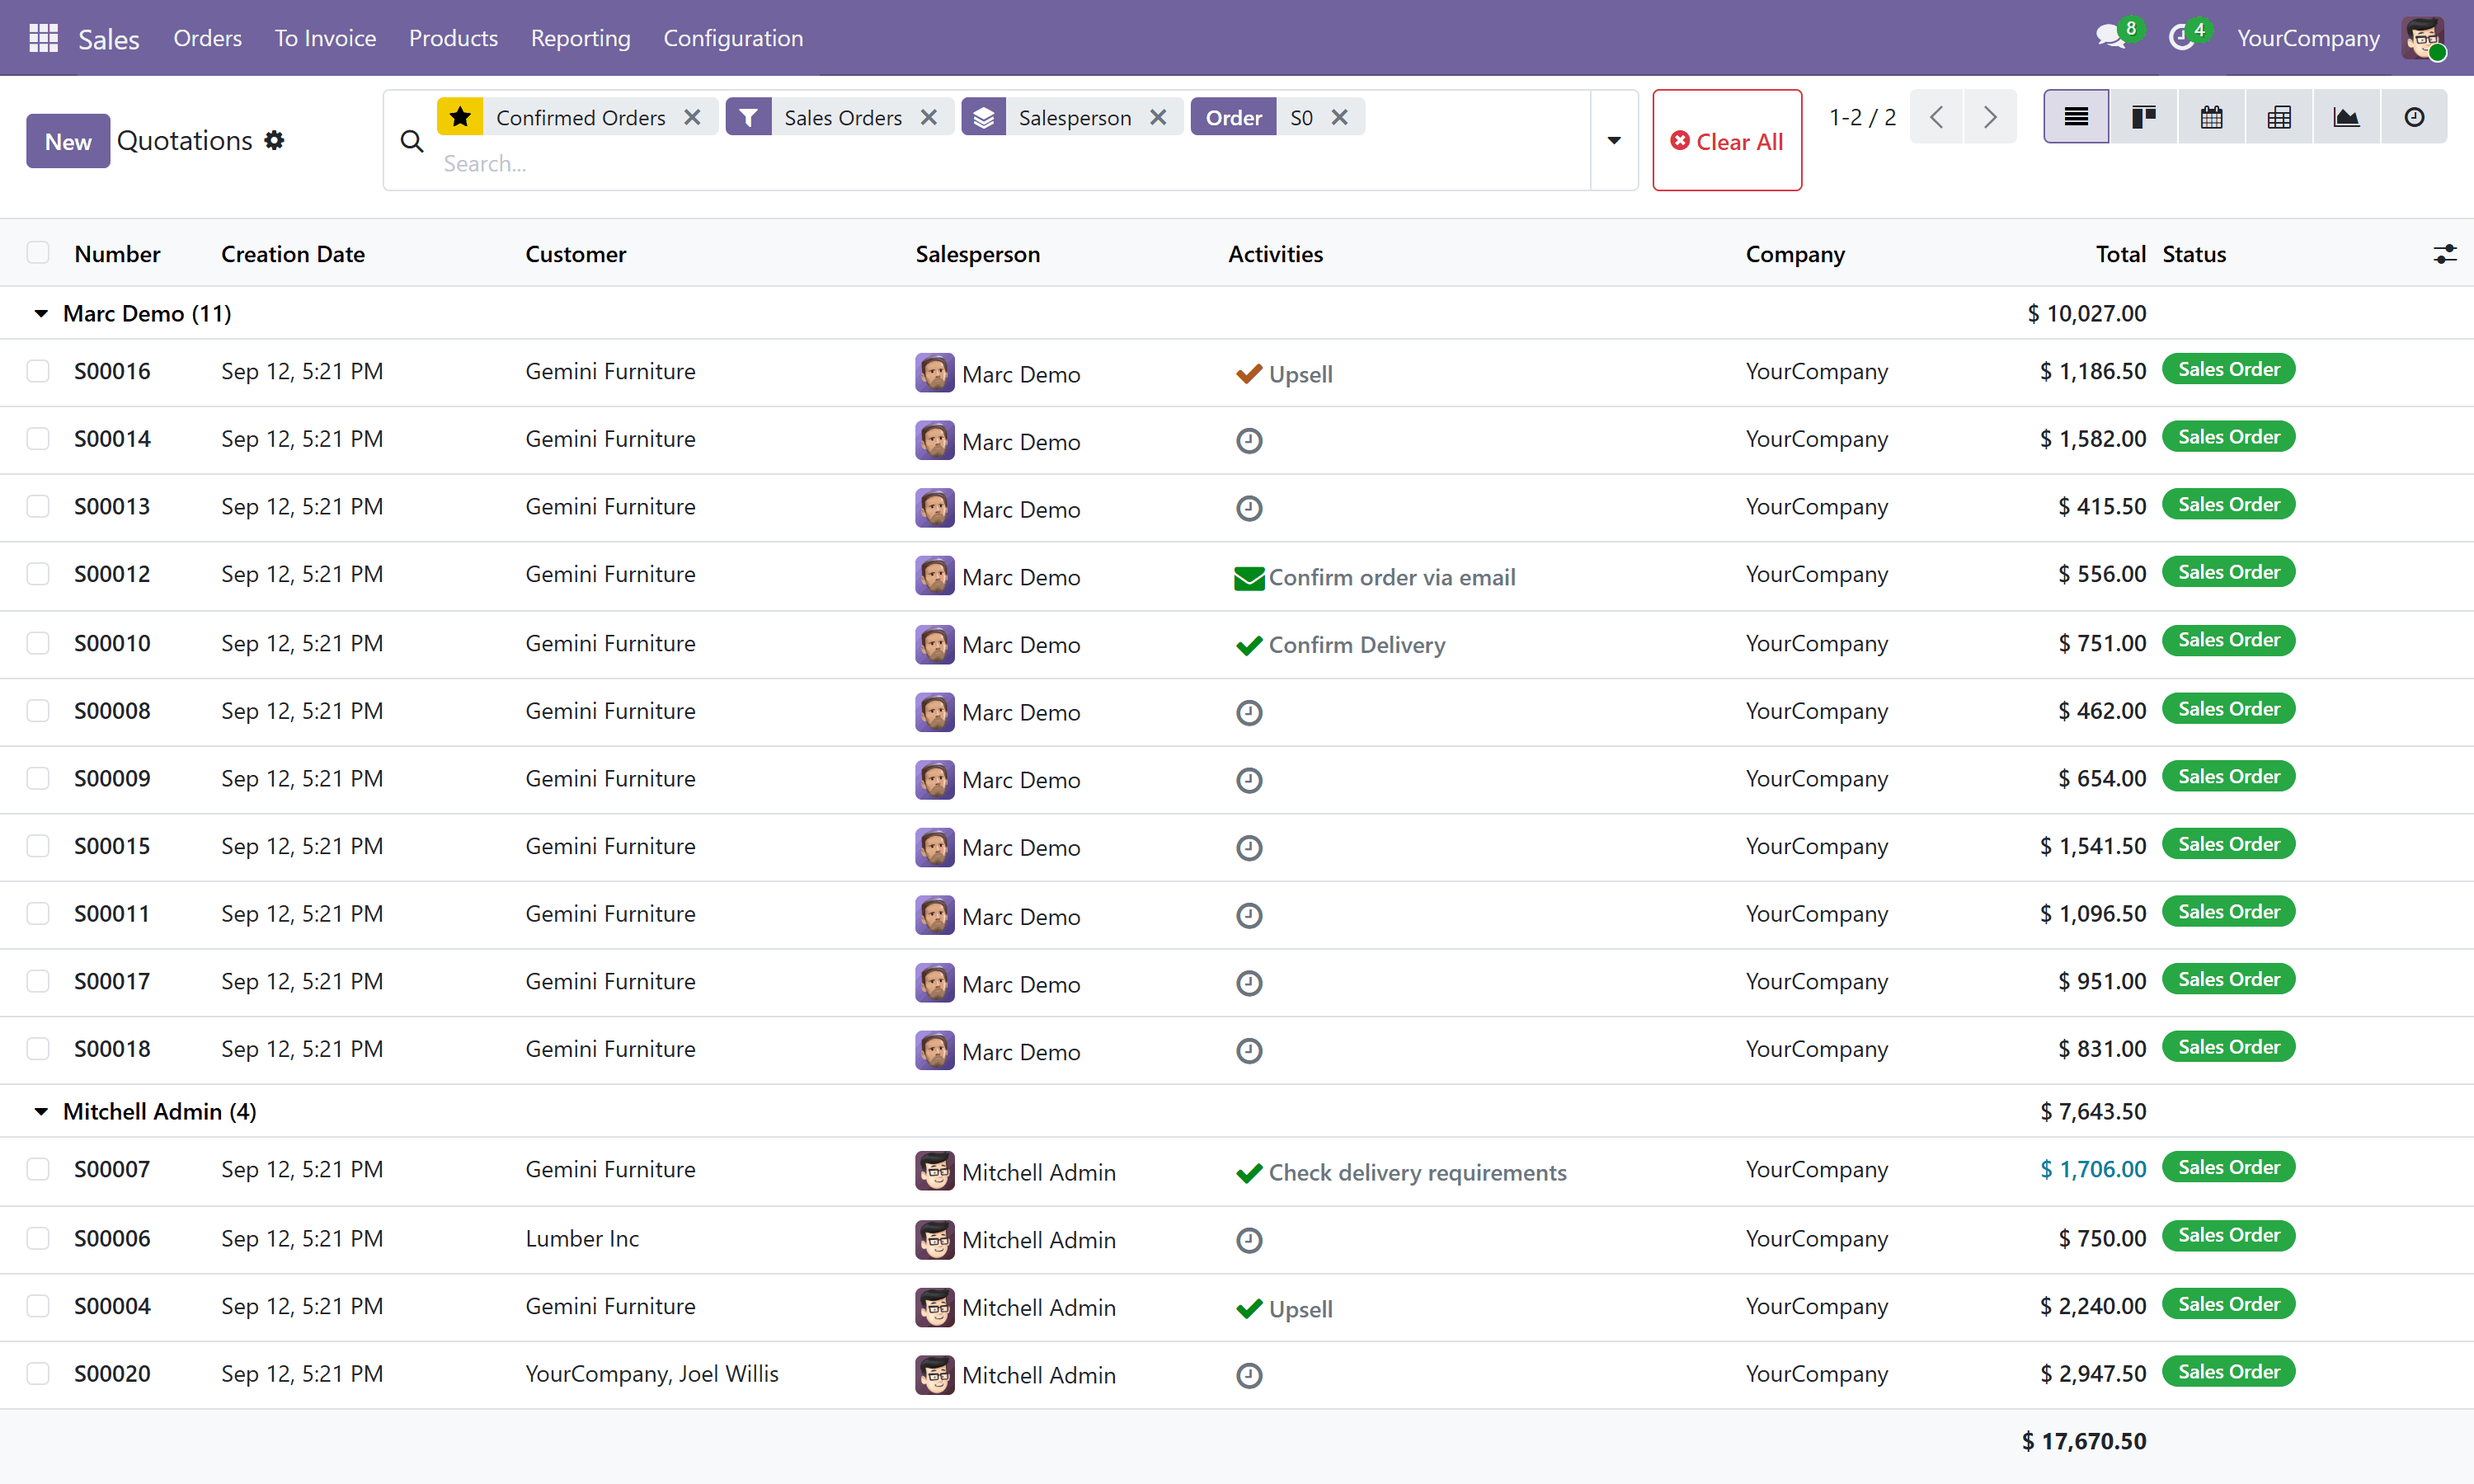
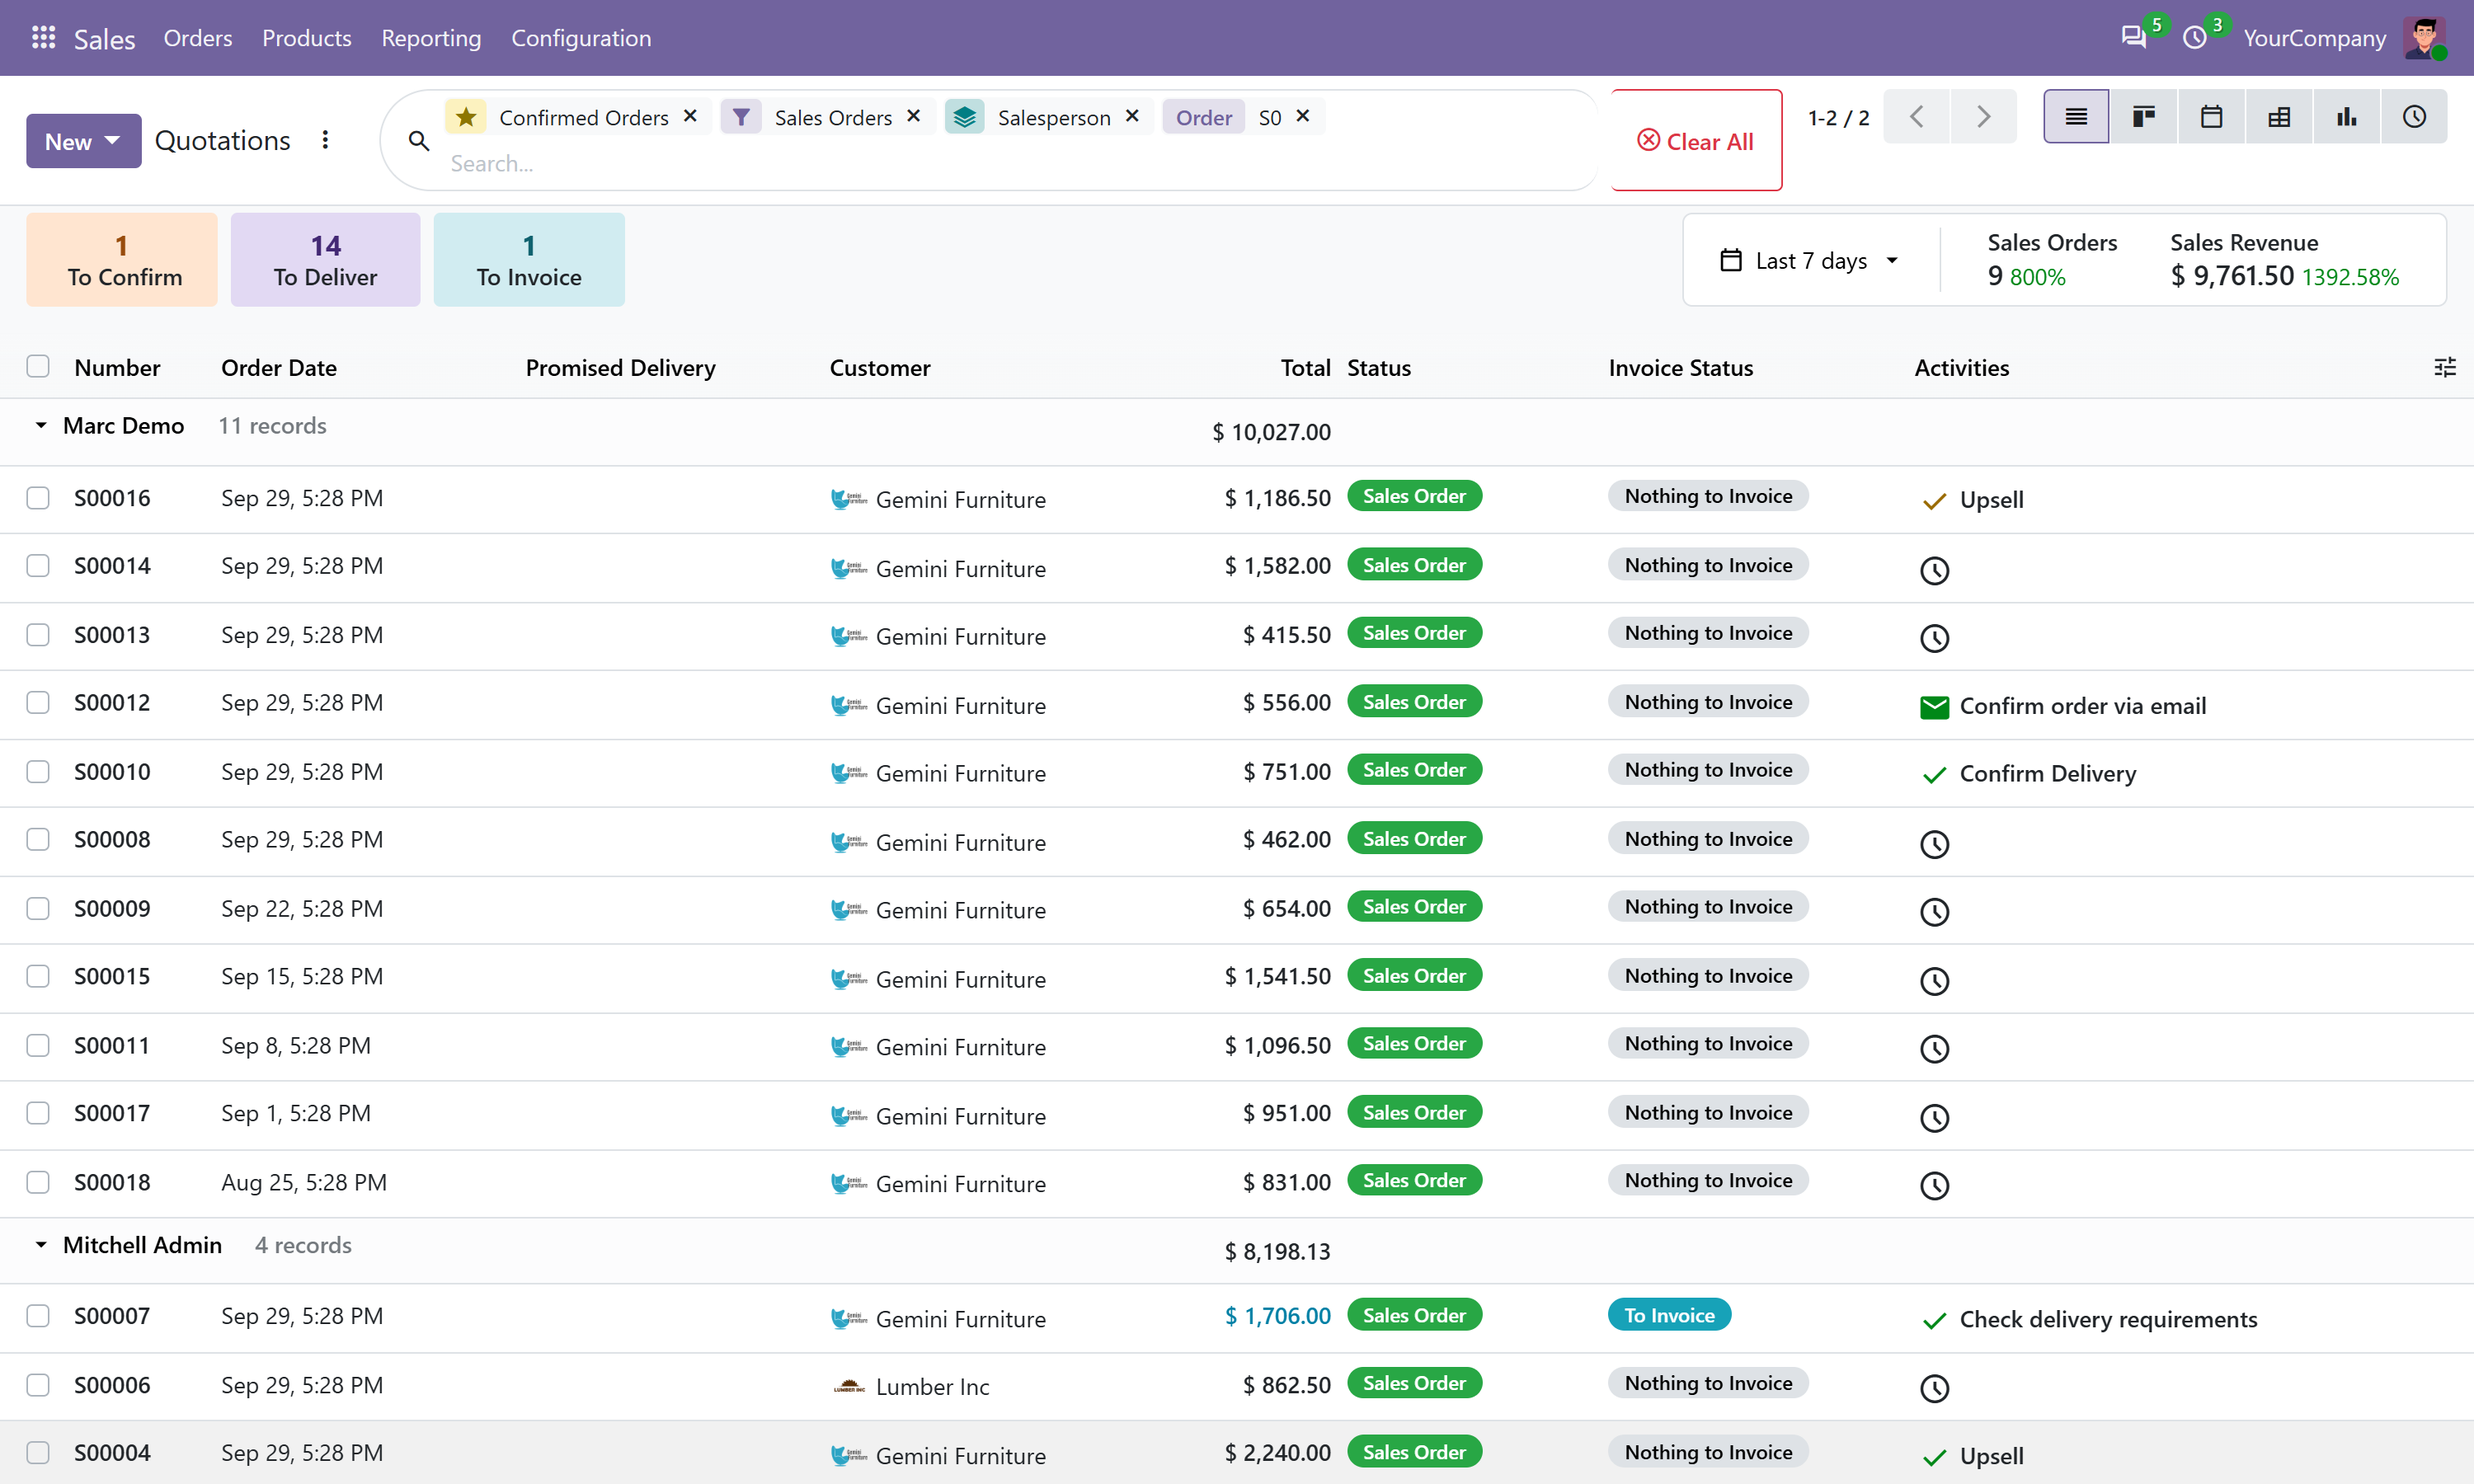
docs(listing): screenshots retaken on Odoo 20; alt text on all three

diff --git a/no_clear_all_filters/static/description/index.html b/no_clear_all_filters/static/description/index.html
@@ -87,13 +87,13 @@
     <div class="container py-5">
         <h2 style="color: #714B67; font-size: 28px; font-weight: 700; margin-bottom: 32px; text-align: center;">See it in action</h2>
 
-        <img src="screenshots/screenshot_1.png" style="width: 100%; border: 1px solid #E8DDE5; border-radius: 8px;"/>
+        <img src="screenshots/screenshot_1.png" alt="Quotations list with a favourite, a filter, a group-by and a typed search in the search bar, and the Clear All button beside it" style="width: 100%; border: 1px solid #E8DDE5; border-radius: 8px;"/>
         <p style="font-size: 14px; color: #64748B; margin: 12px 0 28px; text-align: center;">A favourite, a filter, a group-by and a typed search, all stacked in one search bar. The Clear All button appears the moment there is something to clear.</p>
 
-        <img src="screenshots/screenshot_2.png" style="width: 100%; border: 1px solid #E8DDE5; border-radius: 8px;"/>
+        <img src="screenshots/screenshot_2.png" alt="The same quotations list one click later: no facets left, every record back, the Clear All button hidden" style="width: 100%; border: 1px solid #E8DDE5; border-radius: 8px;"/>
         <p style="font-size: 14px; color: #64748B; margin: 12px 0 28px; text-align: center;">One click later: every facet is gone, the full list is back, and the button hides itself again.</p>
 
-        <img src="screenshots/screenshot_3.png" style="width: 100%; border: 1px solid #E8DDE5; border-radius: 8px;"/>
+        <img src="screenshots/screenshot_3.png" alt="Contacts kanban with a filter and a group-by, and the Clear All button beside the search bar" style="width: 100%; border: 1px solid #E8DDE5; border-radius: 8px;"/>
         <p style="font-size: 14px; color: #64748B; margin: 12px 0 0; text-align: center;">The same button in kanban, in a different app &mdash; it follows Odoo's standard search bar everywhere it appears.</p>
     </div>
 

diff --git a/CHANGELOG.md b/CHANGELOG.md
@@ -22,6 +22,9 @@ Versions use Odoo's `<odoo_version>.<module_major>.<module_minor>.<module_patch>
   part but the last, so the toggler, which is all padding, shrank to nothing and
   the Filters / Group By menu could not be opened while the button showed.
 
+### Listing
+- The three screenshots were retaken on Odoo 20 and now carry alt text.
+
 ## [19.0.1.2.1] - 2026-06-02
 
 ### Changed
